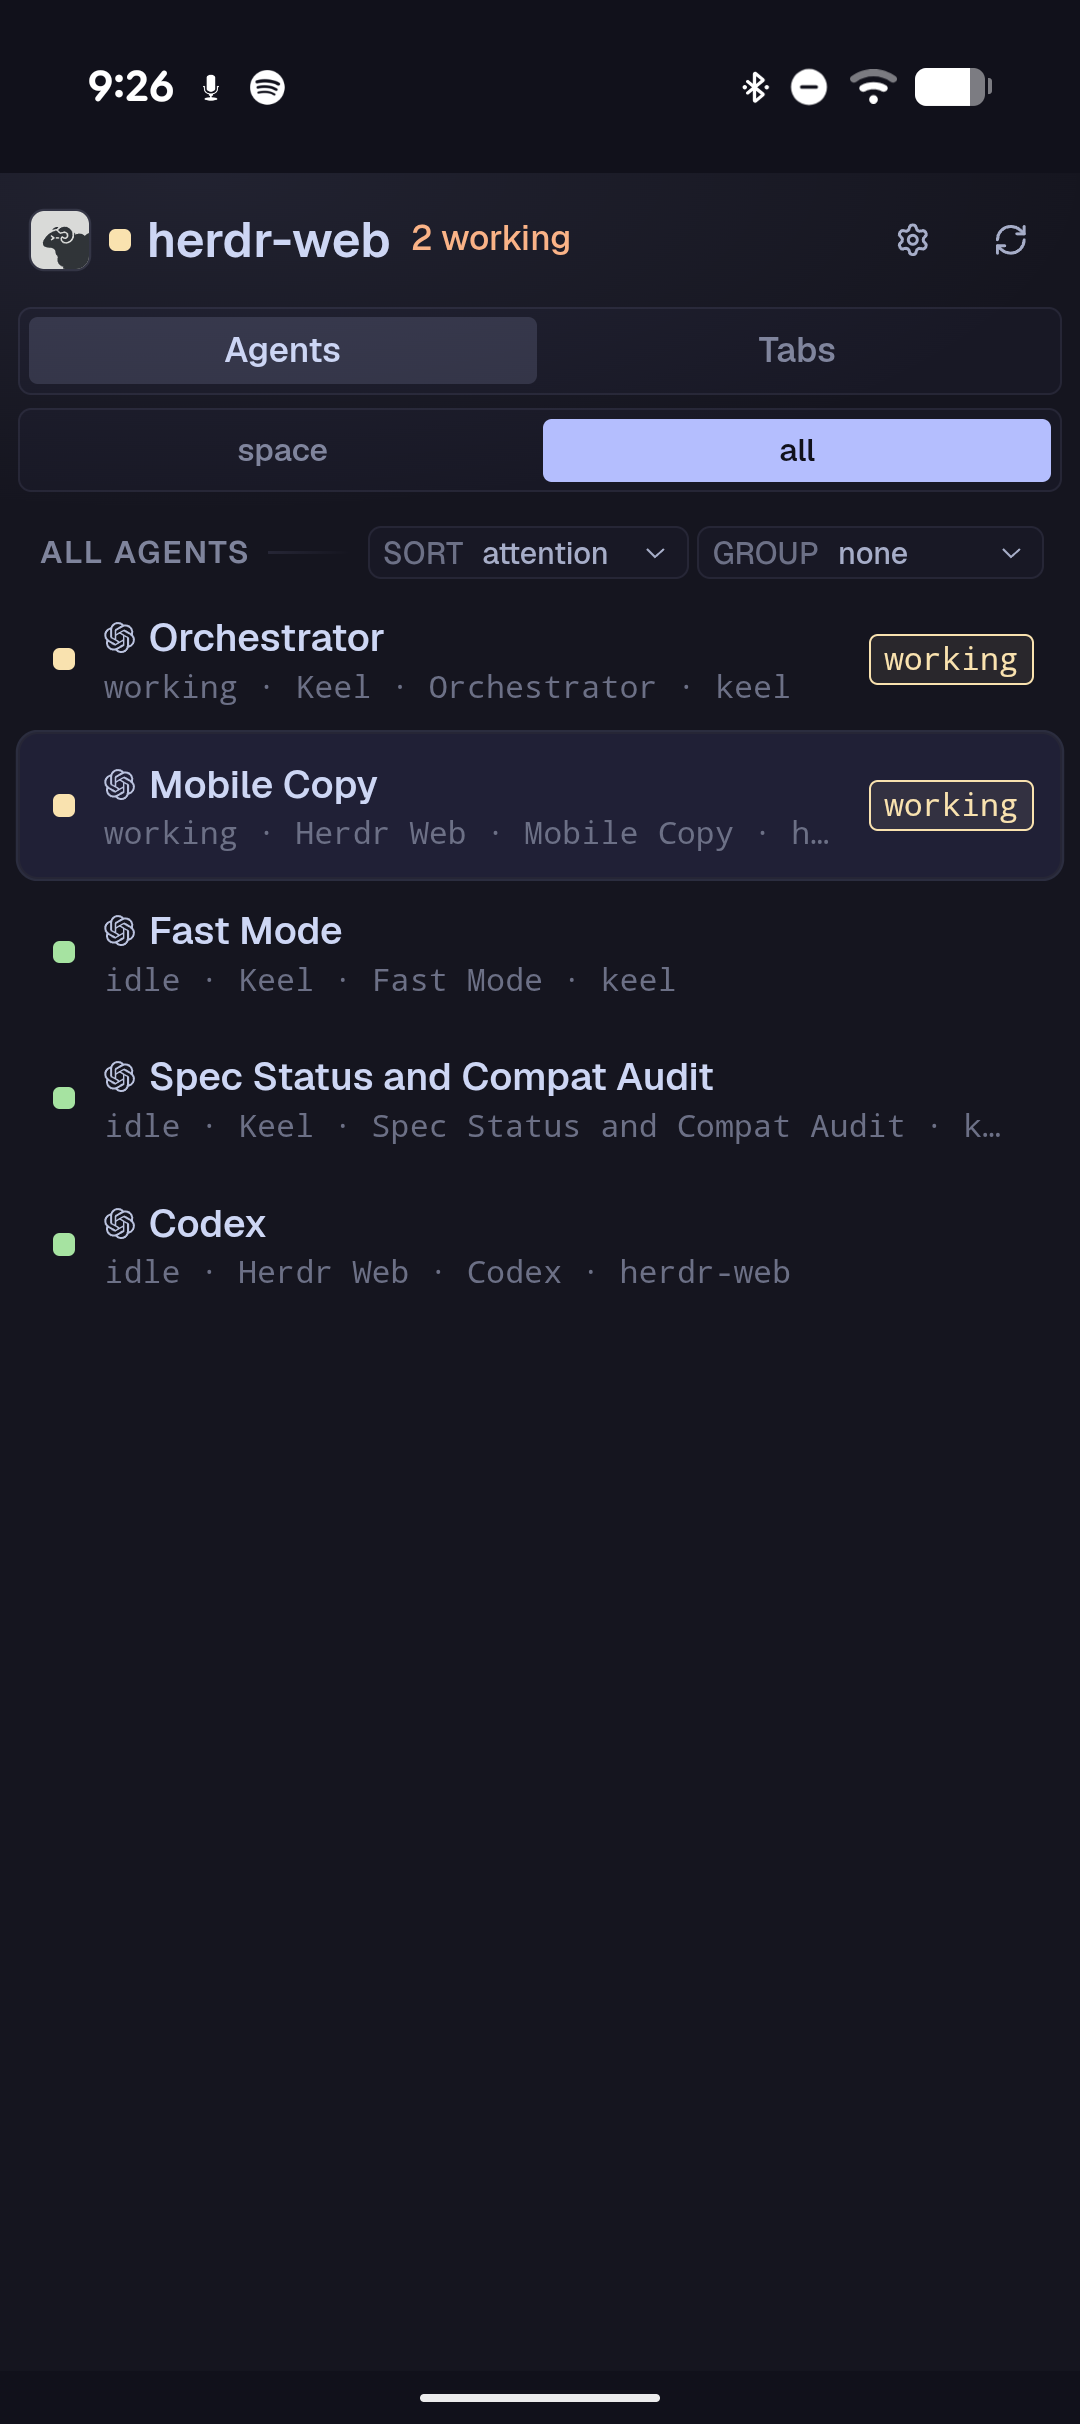
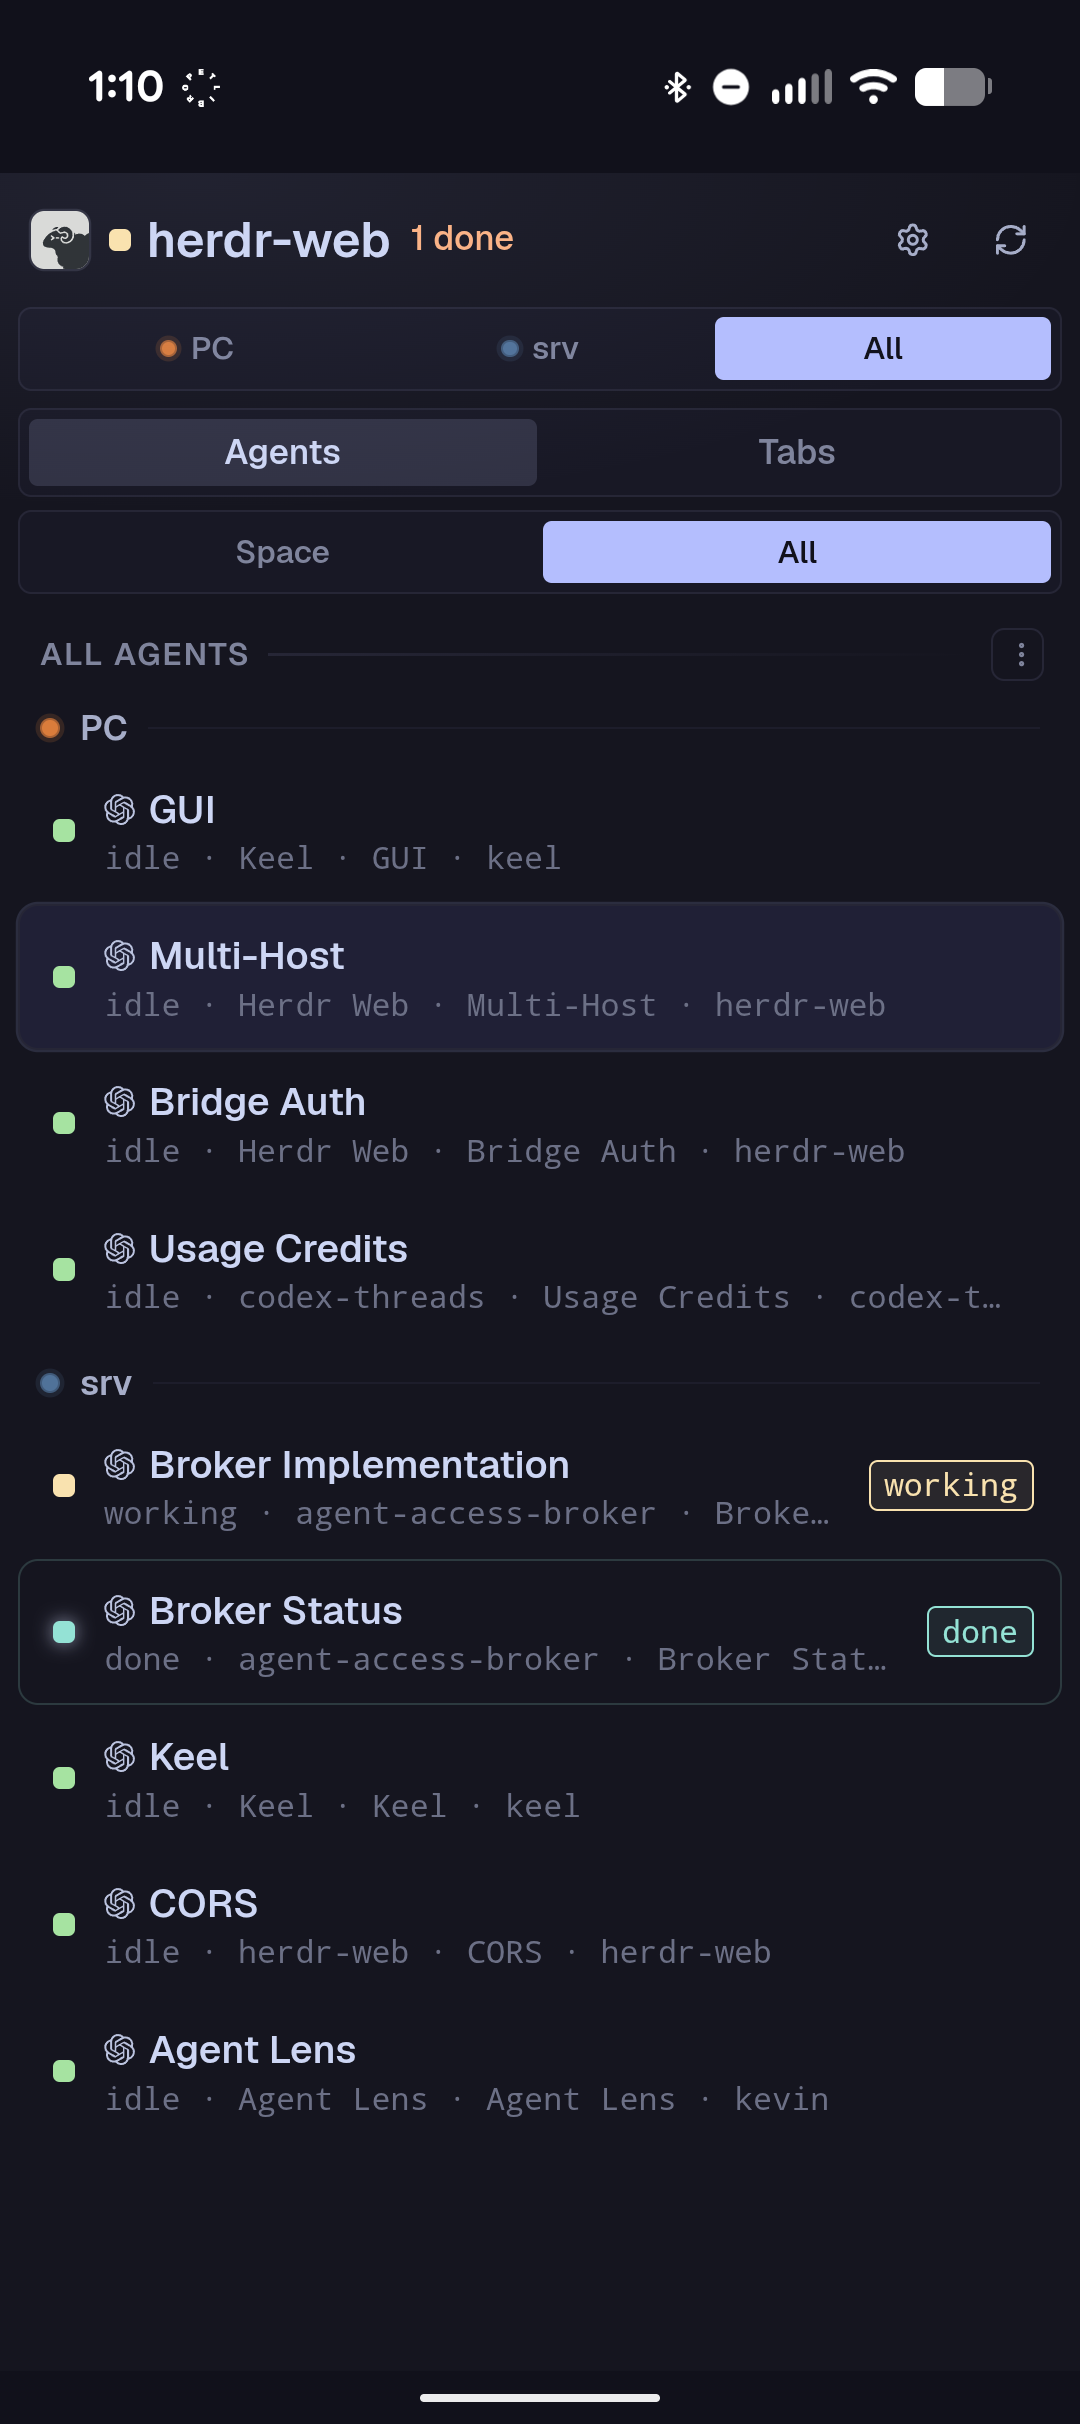
Update Android screenshots

diff --git a/README.md b/README.md
@@ -34,6 +34,10 @@ navigation, multi-client viewing, mobile input controls, and synchronized pane s
 |:--:|:--:|
 | <img src="docs/images/android-phone-switcher.png" alt="herdr-web Android phone switcher" width="260"> | <img src="docs/images/android-phone-terminal.png" alt="herdr-web Android phone terminal" width="260"> |
 
+| Android bridge configuration |
+|:--:|
+| <img src="docs/images/android-phone-bridge-settings.png" alt="herdr-web Android bridge settings and color picker" width="260"> |
+
 ## Layout
 
 ```text